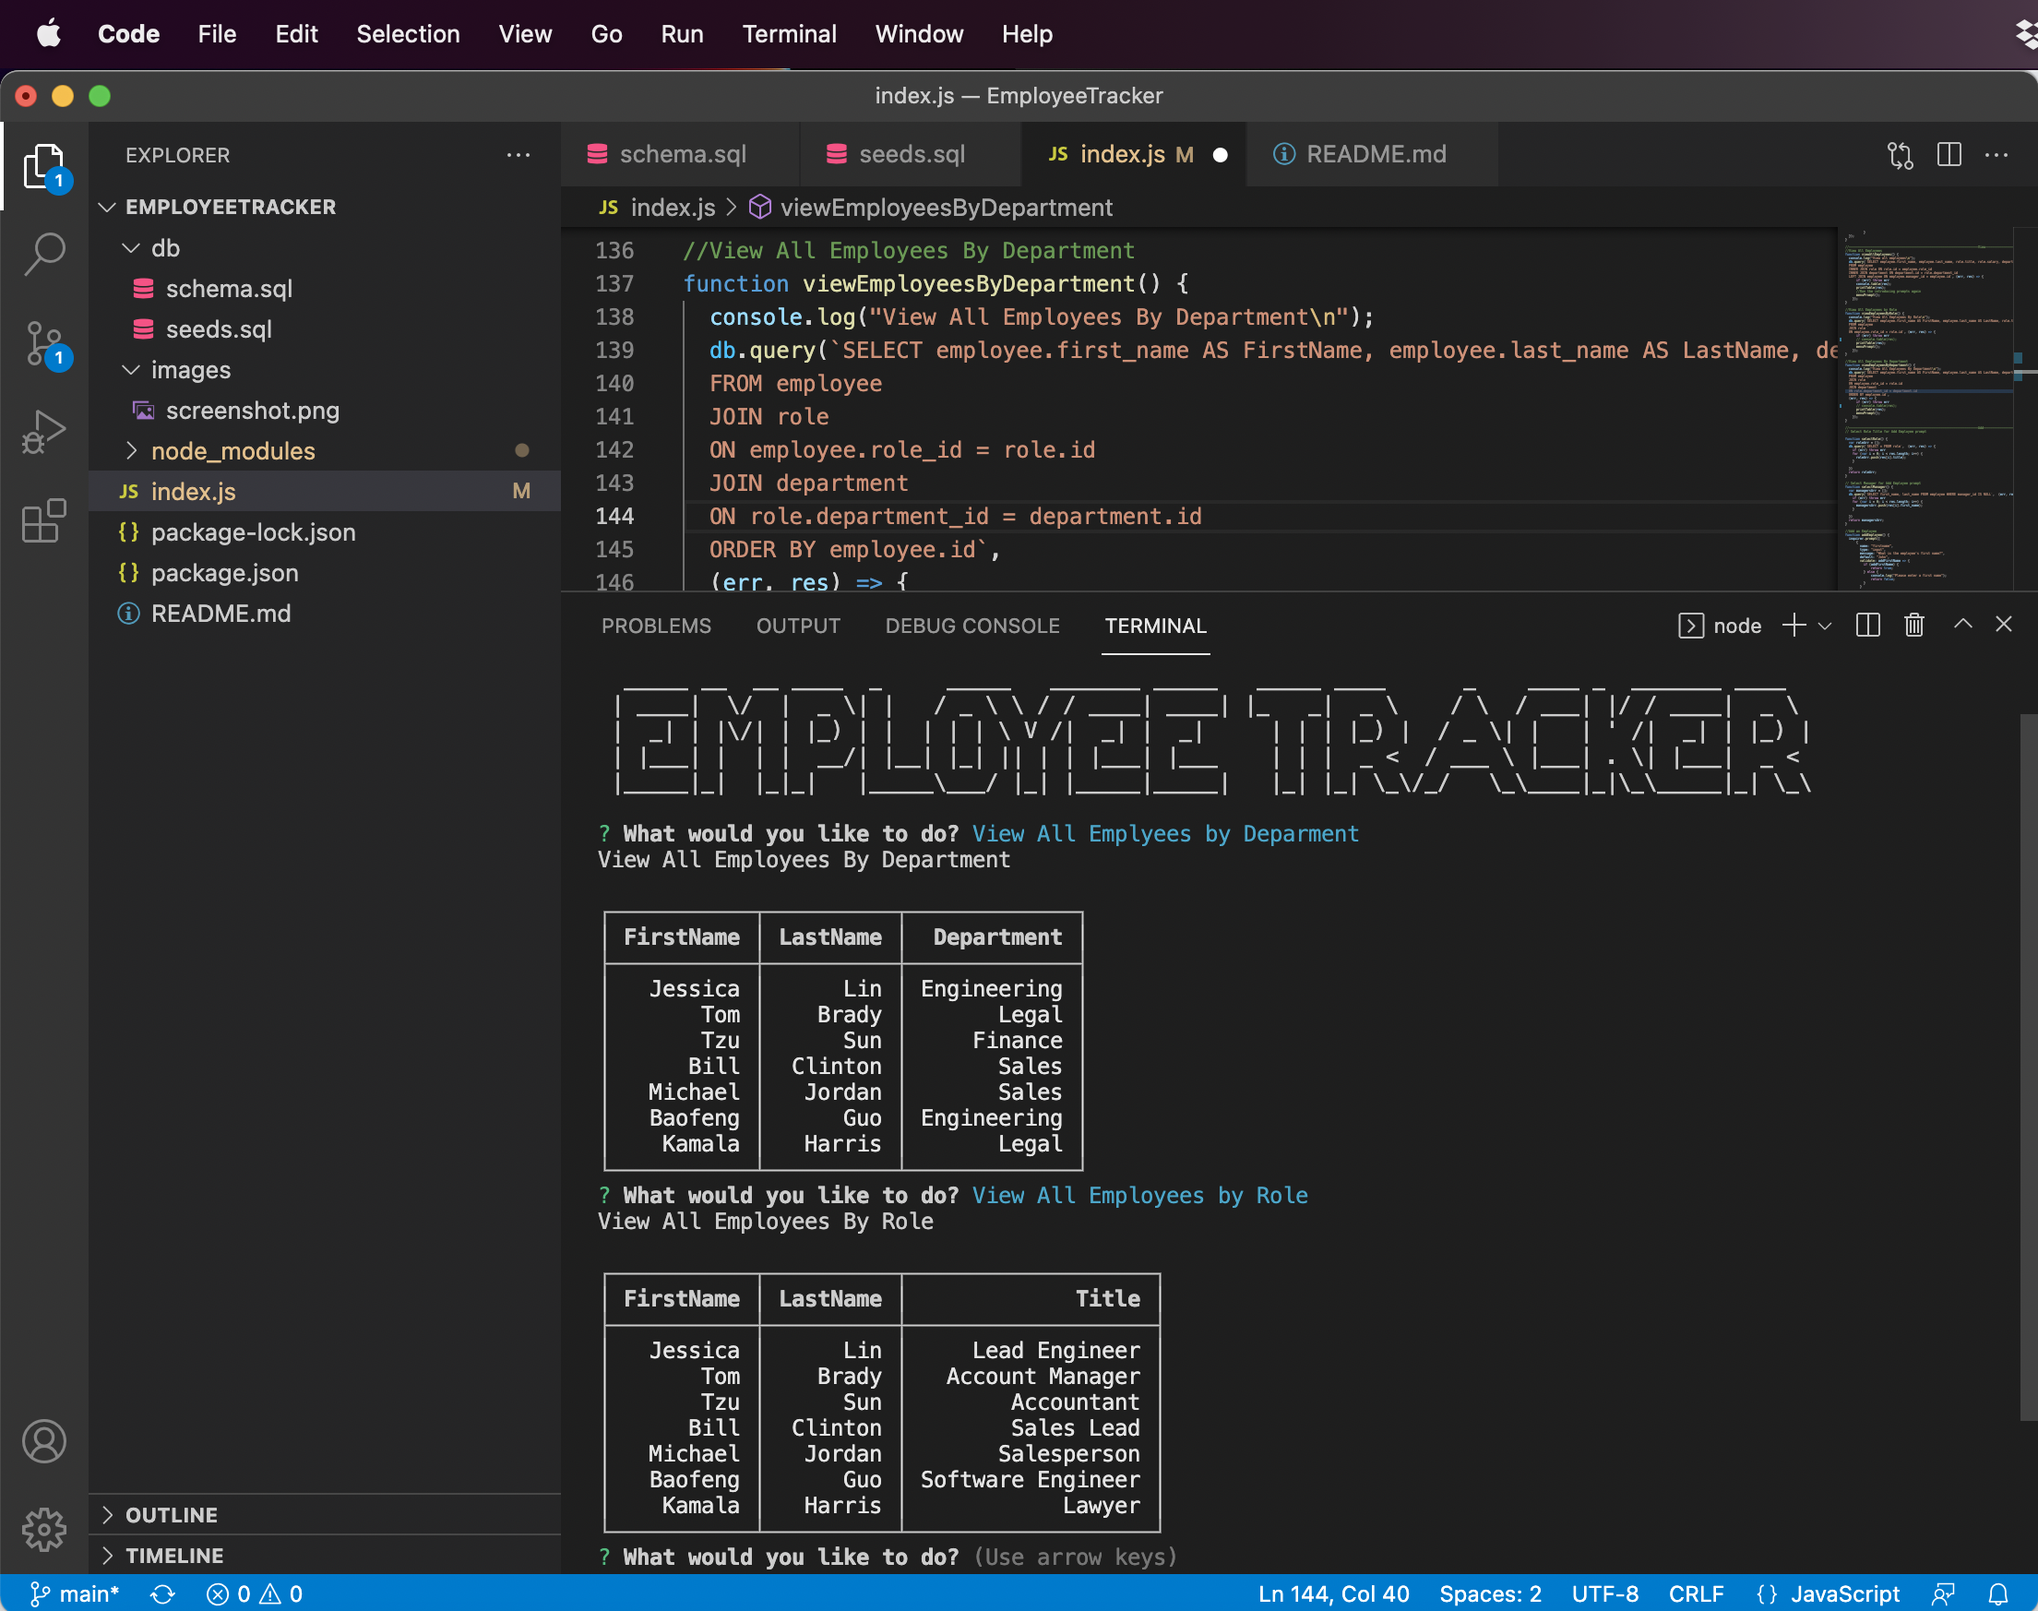
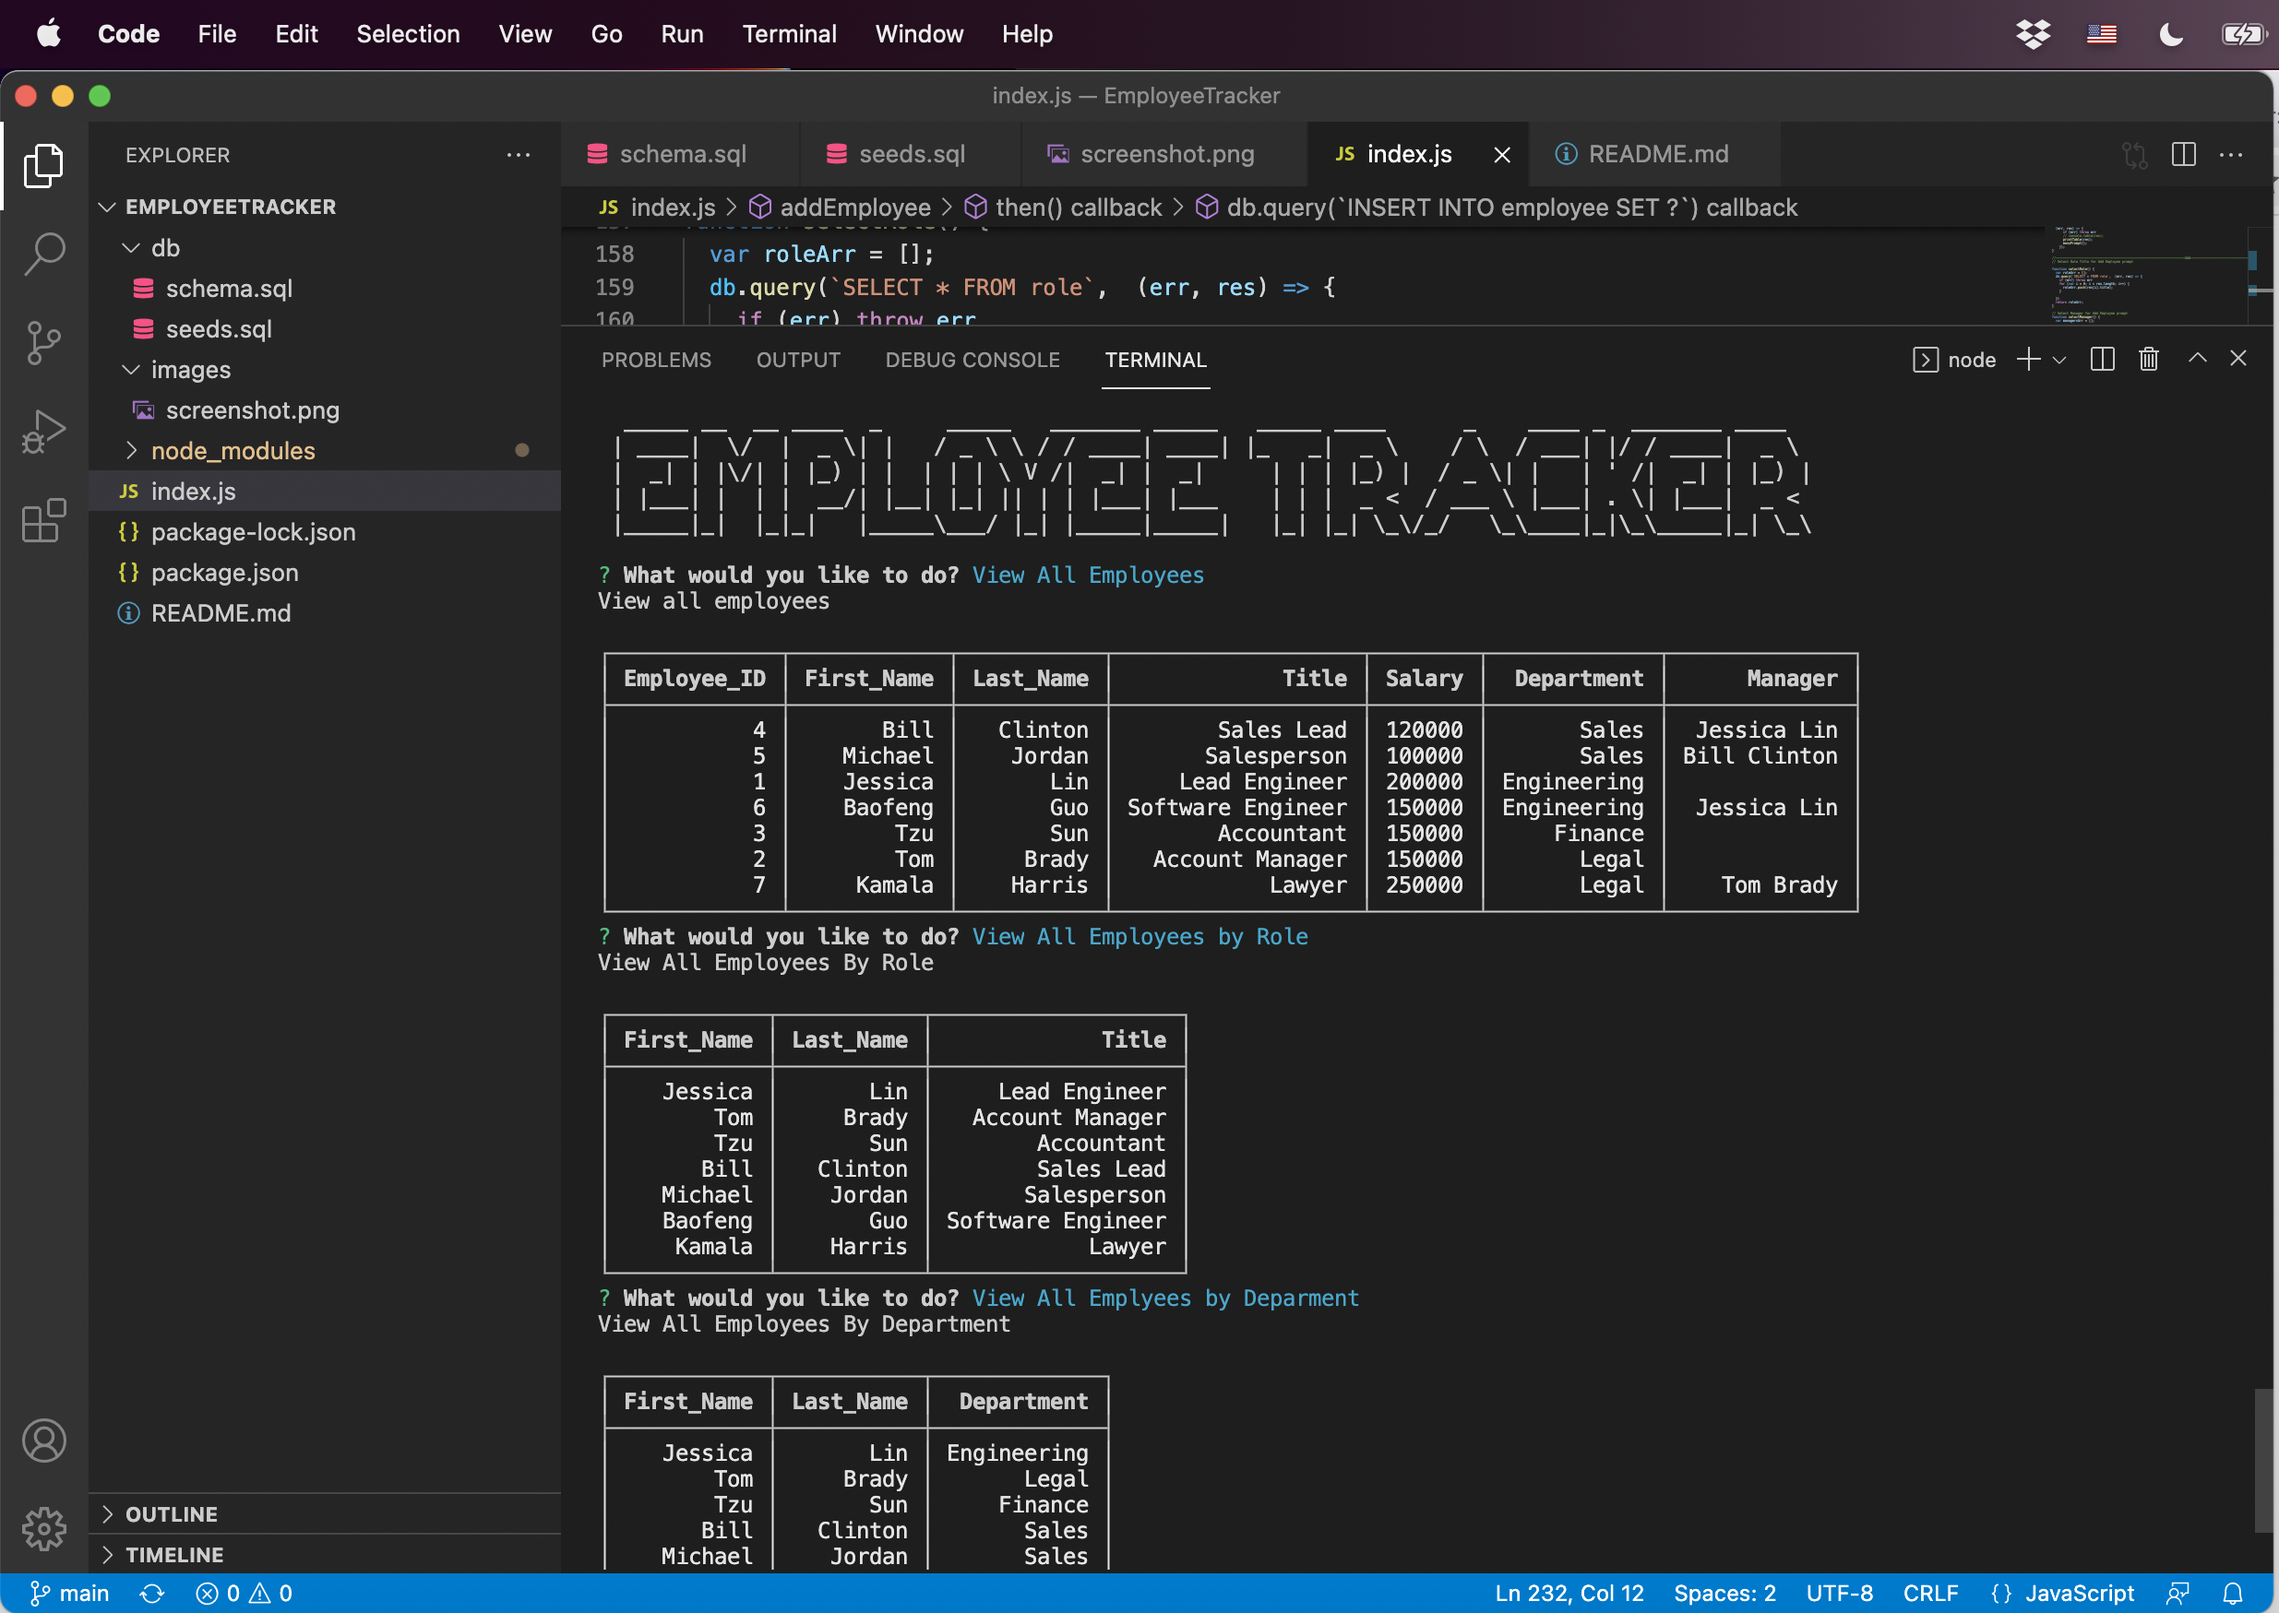
Updated the screenshot.

diff --git a/index.js b/index.js
@@ -106,7 +106,7 @@ function menuPrompt() {
 //View All Employees
 function viewAllEmployees() {
   console.log("View all employees\n");
-  db.query(`SELECT employee.first_name AS FirstName, employee.last_name AS LastName, role.title AS Title, role.salary AS Salary, department.name AS Department, CONCAT(e.first_name, ' ' , e.last_name) AS Manager 
+  db.query(`SELECT employee.id AS Employee_ID, employee.first_name AS First_Name, employee.last_name AS Last_Name, role.title AS Title, role.salary AS Salary, department.name AS Department, CONCAT(e.first_name, ' ' , e.last_name) AS Manager 
   FROM employee 
   INNER JOIN role ON role.id = employee.role_id
   INNER JOIN department ON department.id = role.department_id
@@ -122,7 +122,7 @@ function viewAllEmployees() {
 //View All Employees by Role
 function viewEmployeesByRole() {
   console.log("View All Employees By Role\n");
-  db.query(`SELECT employee.first_name AS FirstName, employee.last_name AS LastName, role.title AS Title
+  db.query(`SELECT employee.first_name AS First_Name, employee.last_name AS Last_Name, role.title AS Title
   FROM employee
   JOIN role
   ON employee.role_id = role.id`, (err, res) => {
@@ -136,7 +136,7 @@ function viewEmployeesByRole() {
 //View All Employees By Department
 function viewEmployeesByDepartment() {
   console.log("View All Employees By Department\n");
-  db.query(`SELECT employee.first_name AS FirstName, employee.last_name AS LastName, department.name AS Department
+  db.query(`SELECT employee.first_name AS First_Name, employee.last_name AS Last_Name, department.name AS Department
   FROM employee
   JOIN role
   ON employee.role_id = role.id
@@ -229,7 +229,7 @@ function addEmployee() {
         
     }, (err, res) => {
         if (err) throw err
-        console.table(res);
+        // console.table(res);
         console.log( `1 new employeed is added successfully: ${res.firstName} ${res.lastName}!\n`);
         menuPrompt();
     })
